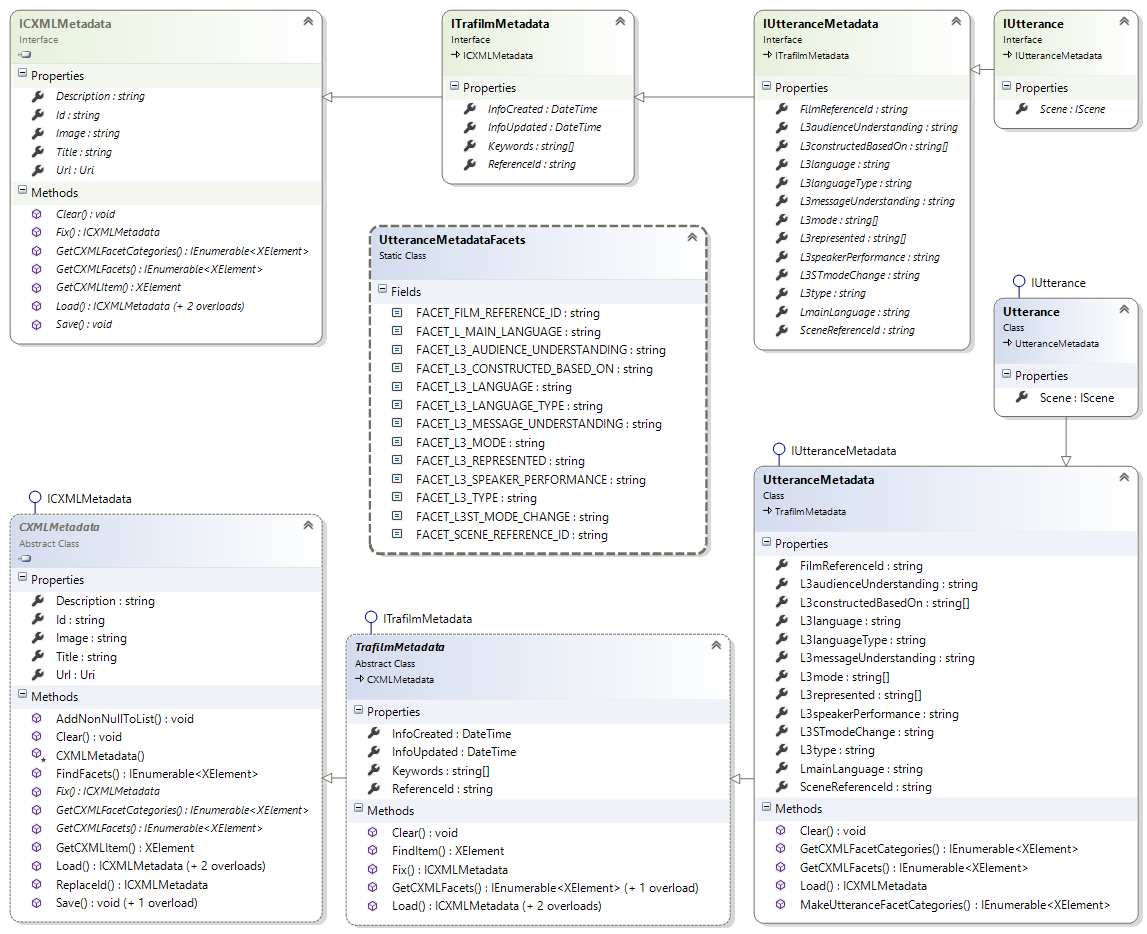
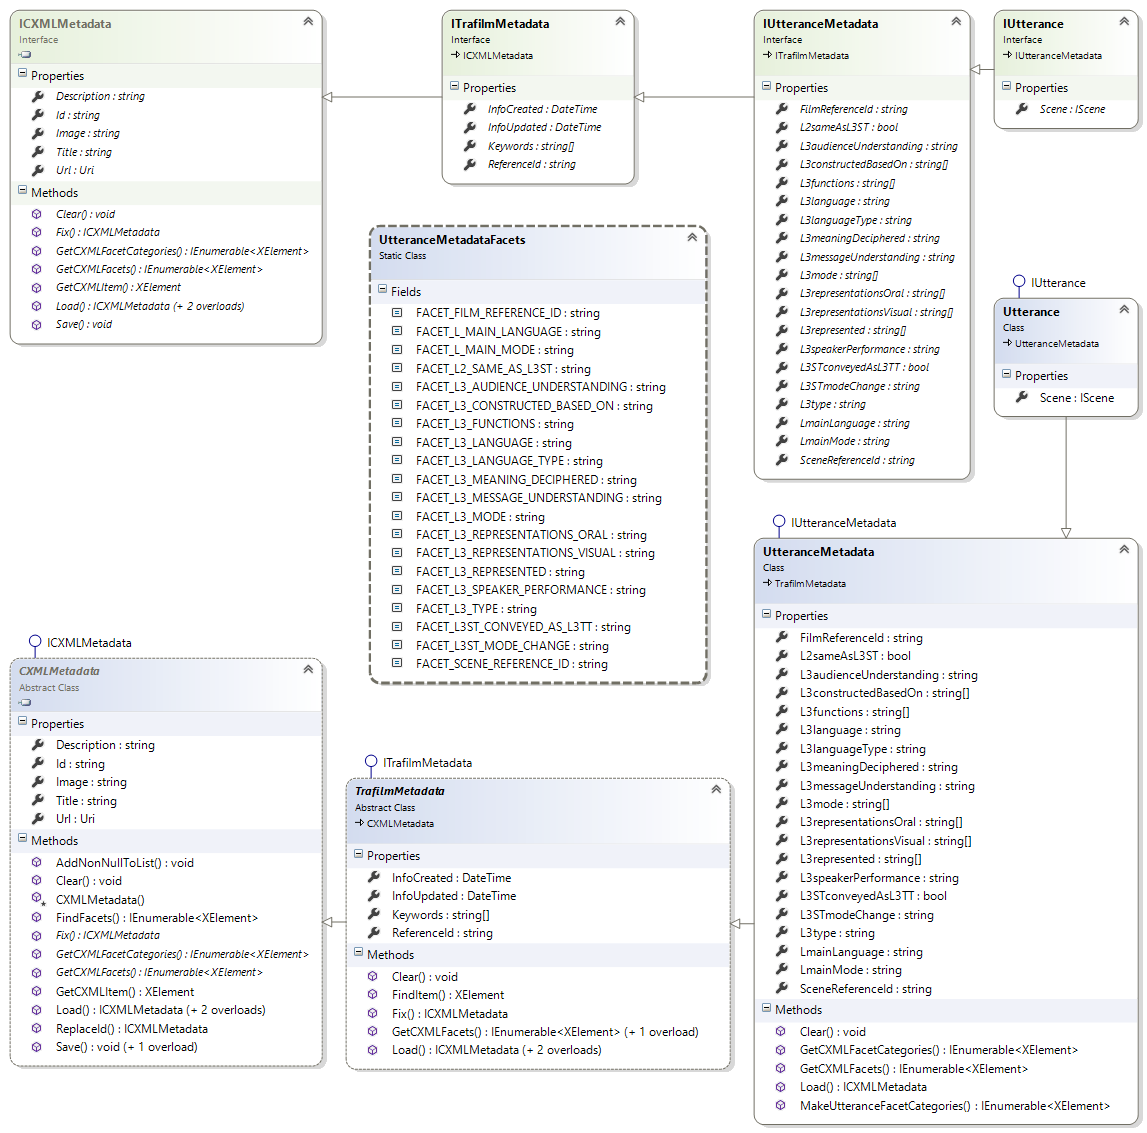
- Updated Utterances metadata with more fields - Updated Diagrams - Updated NuGet package and published

diff --git a/Metadata/Utterance/UtteranceMetadata.cs b/Metadata/Utterance/UtteranceMetadata.cs
@@ -1,6 +1,6 @@
 //Project: Trafilm (http://trafilm.net)
 //Filename: UtteranceMetadata.cs
-//Version: 20160506
+//Version: 20160510
 
 using Metadata.CXML;
 using Trafilm.Metadata.Models;
@@ -21,7 +21,11 @@ namespace Trafilm.Metadata
 
     public string L3type { get; set; } //L3ST, L3TT
 
-    public string LmainLanguage { get; set; } //for L1ST or L2TT
+    public string LmainLanguage { get; set; } //depending on L3 type this is either the L1ST language or the L2TT language
+    public string LmainMode { get; set; } //oral, text (means dubbed, subtitled in L2TT context)
+
+    public bool L2sameAsL3ST { get; set; }
+    public bool L3STconveyedAsL3TT { get; set; }
 
     public string L3languageType { get; set; } //e.g. real, constructed, variety (real dialect, slang or other)
     public string L3language { get; set; }
@@ -30,6 +34,7 @@ namespace Trafilm.Metadata
 
     public string L3audienceUnderstanding { get; set; }
     public string L3messageUnderstanding { get; set; }
+    public string L3meaningDeciphered { get; set; }
 
     public string L3speakerPerformance { get; set; }
 
@@ -37,6 +42,10 @@ namespace Trafilm.Metadata
     public string L3STmodeChange { get; set; } //for L3 type = L3ST this should always be "Not applicable"
 
     public string[] L3represented { get; set; }
+    public string[] L3representationsOral { get; set; }
+    public string[] L3representationsVisual { get; set; }
+
+    public string[] L3functions { get; set; }
 
     #endregion
 
@@ -52,6 +61,10 @@ namespace Trafilm.Metadata
       L3type = "";
 
       LmainLanguage = "";
+      LmainMode = "";
+
+      L2sameAsL3ST = false;
+      L3STconveyedAsL3TT = false;
 
       L3languageType = "";
       L3language = "";
@@ -60,6 +73,7 @@ namespace Trafilm.Metadata
 
       L3audienceUnderstanding = "";
       L3messageUnderstanding = "";
+      L3meaningDeciphered = "";
 
       L3speakerPerformance = "";
 
@@ -67,6 +81,10 @@ namespace Trafilm.Metadata
       L3STmodeChange = "";
 
       L3represented = new string[] { };
+      L3representationsOral= new string[] { };
+      L3representationsVisual = new string[] { };
+
+      L3functions = new string[] { };
     }
 
     public override ICXMLMetadata Load(XElement item)
@@ -81,6 +99,10 @@ namespace Trafilm.Metadata
       L3type = facets.CXMLFacetStringValue(UtteranceMetadataFacets.FACET_L3_TYPE);
 
       LmainLanguage = facets.CXMLFacetStringValue(UtteranceMetadataFacets.FACET_L_MAIN_LANGUAGE);
+      LmainMode = facets.CXMLFacetStringValue(UtteranceMetadataFacets.FACET_L_MAIN_MODE);
+
+      L2sameAsL3ST = facets.CXMLFacetBoolValue(UtteranceMetadataFacets.FACET_L2_SAME_AS_L3ST);
+      L3STconveyedAsL3TT = facets.CXMLFacetBoolValue(UtteranceMetadataFacets.FACET_L3ST_CONVEYED_AS_L3TT);
 
       L3languageType = facets.CXMLFacetStringValue(UtteranceMetadataFacets.FACET_L3_LANGUAGE_TYPE);
       L3language = facets.CXMLFacetStringValue(UtteranceMetadataFacets.FACET_L3_LANGUAGE);
@@ -89,6 +111,7 @@ namespace Trafilm.Metadata
 
       L3audienceUnderstanding = facets.CXMLFacetStringValue(UtteranceMetadataFacets.FACET_L3_AUDIENCE_UNDERSTANDING);
       L3messageUnderstanding = facets.CXMLFacetStringValue(UtteranceMetadataFacets.FACET_L3_MESSAGE_UNDERSTANDING);
+      L3meaningDeciphered = facets.CXMLFacetStringValue(UtteranceMetadataFacets.FACET_L3_MEANING_DECIPHERED);
 
       L3speakerPerformance = facets.CXMLFacetStringValue(UtteranceMetadataFacets.FACET_L3_SPEAKER_PERFORMANCE);
 
@@ -96,6 +119,10 @@ namespace Trafilm.Metadata
       L3STmodeChange = facets.CXMLFacetStringValue(UtteranceMetadataFacets.FACET_L3ST_MODE_CHANGE); //for L3 type = L3ST this should always be "Not applicable" 
 
       L3represented = facets.CXMLFacetStringValues(UtteranceMetadataFacets.FACET_L3_REPRESENTED);
+      L3representationsOral = facets.CXMLFacetStringValues(UtteranceMetadataFacets.FACET_L3_REPRESENTATIONS_ORAL);
+      L3representationsVisual = facets.CXMLFacetStringValues(UtteranceMetadataFacets.FACET_L3_REPRESENTATIONS_VISUAL);
+
+      L3functions = facets.CXMLFacetStringValues(UtteranceMetadataFacets.FACET_L3_FUNCTIONS);
 
       return this;
     }
@@ -118,6 +145,10 @@ namespace Trafilm.Metadata
       AddNonNullToList(facets, CXML.MakeStringFacet(UtteranceMetadataFacets.FACET_L3_TYPE, L3type));
 
       AddNonNullToList(facets, CXML.MakeStringFacet(UtteranceMetadataFacets.FACET_L_MAIN_LANGUAGE, LmainLanguage));
+      AddNonNullToList(facets, CXML.MakeStringFacet(UtteranceMetadataFacets.FACET_L_MAIN_MODE, LmainMode));
+
+      AddNonNullToList(facets, CXML.MakeStringFacet(UtteranceMetadataFacets.FACET_L2_SAME_AS_L3ST, L2sameAsL3ST.ToString())); //this will give True/False (not Yes/No)
+      AddNonNullToList(facets, CXML.MakeStringFacet(UtteranceMetadataFacets.FACET_L3ST_CONVEYED_AS_L3TT, L3STconveyedAsL3TT.ToString())); //this will give True/False (not Yes/No)
 
       AddNonNullToList(facets, CXML.MakeStringFacet(UtteranceMetadataFacets.FACET_L3_LANGUAGE_TYPE, L3languageType));
       AddNonNullToList(facets, CXML.MakeStringFacet(UtteranceMetadataFacets.FACET_L3_LANGUAGE, L3language));
@@ -126,6 +157,7 @@ namespace Trafilm.Metadata
 
       AddNonNullToList(facets, CXML.MakeStringFacet(UtteranceMetadataFacets.FACET_L3_AUDIENCE_UNDERSTANDING, L3audienceUnderstanding));
       AddNonNullToList(facets, CXML.MakeStringFacet(UtteranceMetadataFacets.FACET_L3_MESSAGE_UNDERSTANDING, L3messageUnderstanding));
+      AddNonNullToList(facets, CXML.MakeStringFacet(UtteranceMetadataFacets.FACET_L3_MEANING_DECIPHERED, L3meaningDeciphered));
 
       AddNonNullToList(facets, CXML.MakeStringFacet(UtteranceMetadataFacets.FACET_L3_SPEAKER_PERFORMANCE, L3speakerPerformance));
 
@@ -133,6 +165,10 @@ namespace Trafilm.Metadata
       AddNonNullToList(facets, CXML.MakeStringFacet(UtteranceMetadataFacets.FACET_L3ST_MODE_CHANGE, L3STmodeChange));
 
       AddNonNullToList(facets, CXML.MakeStringFacet(UtteranceMetadataFacets.FACET_L3_REPRESENTED, L3represented));
+      AddNonNullToList(facets, CXML.MakeStringFacet(UtteranceMetadataFacets.FACET_L3_REPRESENTATIONS_ORAL, L3representationsOral));
+      AddNonNullToList(facets, CXML.MakeStringFacet(UtteranceMetadataFacets.FACET_L3_REPRESENTATIONS_VISUAL, L3representationsVisual));
+
+      AddNonNullToList(facets, CXML.MakeStringFacet(UtteranceMetadataFacets.FACET_L3_FUNCTIONS, L3functions));
 
       return facets;
     }
@@ -155,6 +191,10 @@ namespace Trafilm.Metadata
       result.Add(CXML.MakeFacetCategory(UtteranceMetadataFacets.FACET_L3_TYPE, CXML.VALUE_STRING, null, isFilterVisible: true, isMetadataVisible: true, isWordWheelVisible: true));
 
       result.Add(CXML.MakeFacetCategory(UtteranceMetadataFacets.FACET_L_MAIN_LANGUAGE, CXML.VALUE_STRING, null, isFilterVisible: true, isMetadataVisible: true, isWordWheelVisible: true));
+      result.Add(CXML.MakeFacetCategory(UtteranceMetadataFacets.FACET_L_MAIN_MODE, CXML.VALUE_STRING, null, isFilterVisible: true, isMetadataVisible: true, isWordWheelVisible: false));
+
+      result.Add(CXML.MakeFacetCategory(UtteranceMetadataFacets.FACET_L2_SAME_AS_L3ST, CXML.VALUE_STRING, null, isFilterVisible: true, isMetadataVisible: true, isWordWheelVisible: false));
+      result.Add(CXML.MakeFacetCategory(UtteranceMetadataFacets.FACET_L3ST_CONVEYED_AS_L3TT, CXML.VALUE_STRING, null, isFilterVisible: true, isMetadataVisible: true, isWordWheelVisible: false));
 
       result.Add(CXML.MakeFacetCategory(UtteranceMetadataFacets.FACET_L3_LANGUAGE_TYPE, CXML.VALUE_STRING, null, isFilterVisible: true, isMetadataVisible: true, isWordWheelVisible: true));
       result.Add(CXML.MakeFacetCategory(UtteranceMetadataFacets.FACET_L3_LANGUAGE, CXML.VALUE_STRING, null, isFilterVisible: true, isMetadataVisible: true, isWordWheelVisible: true));
@@ -163,13 +203,18 @@ namespace Trafilm.Metadata
 
       result.Add(CXML.MakeFacetCategory(UtteranceMetadataFacets.FACET_L3_AUDIENCE_UNDERSTANDING, CXML.VALUE_STRING, null, isFilterVisible: true, isMetadataVisible: true, isWordWheelVisible: true));
       result.Add(CXML.MakeFacetCategory(UtteranceMetadataFacets.FACET_L3_MESSAGE_UNDERSTANDING, CXML.VALUE_STRING, null, isFilterVisible: true, isMetadataVisible: true, isWordWheelVisible: true));
+      result.Add(CXML.MakeFacetCategory(UtteranceMetadataFacets.FACET_L3_MEANING_DECIPHERED, CXML.VALUE_STRING, null, isFilterVisible: true, isMetadataVisible: true, isWordWheelVisible: true));
 
-      result.Add(CXML.MakeFacetCategory(UtteranceMetadataFacets.FACET_L3_SPEAKER_PERFORMANCE, CXML.VALUE_STRING, null, isFilterVisible: true, isMetadataVisible: true, isWordWheelVisible: true));
+      result.Add(CXML.MakeFacetCategory(UtteranceMetadataFacets.FACET_L3_SPEAKER_PERFORMANCE, CXML.VALUE_STRING, null, isFilterVisible: true, isMetadataVisible: true, isWordWheelVisible: false));
 
       result.Add(CXML.MakeFacetCategory(UtteranceMetadataFacets.FACET_L3_MODE, CXML.VALUE_STRING, null, isFilterVisible: true, isMetadataVisible: true, isWordWheelVisible: true));
       result.Add(CXML.MakeFacetCategory(UtteranceMetadataFacets.FACET_L3ST_MODE_CHANGE, CXML.VALUE_STRING, null, isFilterVisible: true, isMetadataVisible: true, isWordWheelVisible: true));
 
       result.Add(CXML.MakeFacetCategory(UtteranceMetadataFacets.FACET_L3_REPRESENTED, CXML.VALUE_STRING, null, isFilterVisible: true, isMetadataVisible: true, isWordWheelVisible: true));
+      result.Add(CXML.MakeFacetCategory(UtteranceMetadataFacets.FACET_L3_REPRESENTATIONS_ORAL, CXML.VALUE_STRING, null, isFilterVisible: true, isMetadataVisible: true, isWordWheelVisible: true));
+      result.Add(CXML.MakeFacetCategory(UtteranceMetadataFacets.FACET_L3_REPRESENTATIONS_VISUAL, CXML.VALUE_STRING, null, isFilterVisible: true, isMetadataVisible: true, isWordWheelVisible: true));
+
+      result.Add(CXML.MakeFacetCategory(UtteranceMetadataFacets.FACET_L3_FUNCTIONS, CXML.VALUE_STRING, null, isFilterVisible: true, isMetadataVisible: true, isWordWheelVisible: true));
 
       //
 

diff --git a/Metadata/Utterance/UtteranceMetadataFacets.cs b/Metadata/Utterance/UtteranceMetadataFacets.cs
@@ -1,6 +1,6 @@
 //Project: Trafilm (http://trafilm.net)
 //Filename: UtteranceMetadataFacets.cs
-//Version: 20160506
+//Version: 20160510
 
 namespace Trafilm.Metadata
 {
@@ -13,6 +13,10 @@ namespace Trafilm.Metadata
     public const string FACET_L3_TYPE = "L3 type";
 
     public const string FACET_L_MAIN_LANGUAGE = "L1ST/L2TT"; //depending on L3 type this is either the L1ST language or the L2TT language
+    public const string FACET_L_MAIN_MODE = "L main mode"; //oral, text (means dubbed, subtitled in L2TT context)
+
+    public const string FACET_L2_SAME_AS_L3ST = "L2 same as L3ST";
+    public const string FACET_L3ST_CONVEYED_AS_L3TT = "L3ST conveyed as L3TT";
 
     public const string FACET_L3_LANGUAGE_TYPE = "L3 language type"; //e.g. real, constructed, variety (real dialect, slang or other)
     public const string FACET_L3_LANGUAGE = "L3 language";
@@ -21,6 +25,7 @@ namespace Trafilm.Metadata
 
     public const string FACET_L3_AUDIENCE_UNDERSTANDING = "L3 audience understanding";
     public const string FACET_L3_MESSAGE_UNDERSTANDING = "L3 message understanding";
+    public const string FACET_L3_MEANING_DECIPHERED = "L3 meaning deciphered";
 
     public const string FACET_L3_SPEAKER_PERFORMANCE = "L3 speaker performance";
 
@@ -28,6 +33,10 @@ namespace Trafilm.Metadata
     public const string FACET_L3ST_MODE_CHANGE = "L3ST mode change"; //for L3 type = L3ST this should always be "Not applicable"
 
     public const string FACET_L3_REPRESENTED = "L3 represented";
+    public const string FACET_L3_REPRESENTATIONS_ORAL = "L3 oral representations";
+    public const string FACET_L3_REPRESENTATIONS_VISUAL = "L3 visual representations";
+
+    public const string FACET_L3_FUNCTIONS = "L3 functions";
   }
 
 }

diff --git a/Metadata/Utterance/IUtteranceMetadata.cs b/Metadata/Utterance/IUtteranceMetadata.cs
@@ -1,6 +1,6 @@
 //Project: Trafilm (http://trafilm.net)
 //Filename: IUtteranceMetadata.cs
-//Version: 20160506
+//Version: 20160510
 
 namespace Trafilm.Metadata.Models
 {
@@ -15,7 +15,11 @@ namespace Trafilm.Metadata.Models
     
     string L3type { get; set; } //for L3ST, L3TT
 
-    string LmainLanguage { get; set; } //L1ST or L2TT
+    string LmainLanguage { get; set; } //depending on L3 type this is either the L1ST language or the L2TT language
+    string LmainMode { get; set; } //oral, text (means dubbed, subtitled in L2TT context)
+
+    bool L2sameAsL3ST { get; set; }
+    bool L3STconveyedAsL3TT { get; set; }
 
     string L3languageType { get; set; } //e.g. real, constructed, variety (real dialect, slang or other)
     string L3language { get; set; }
@@ -24,6 +28,7 @@ namespace Trafilm.Metadata.Models
 
     string L3audienceUnderstanding { get; set; }
     string L3messageUnderstanding { get; set; }
+    string L3meaningDeciphered { get; set; }
     
     string L3speakerPerformance { get; set; }
 
@@ -31,6 +36,10 @@ namespace Trafilm.Metadata.Models
     string L3STmodeChange { get; set; } //for L3 type = L3ST this should always be "Not applicable"
 
     string[] L3represented { get; set; }
+    string[] L3representationsOral { get; set; }
+    string[] L3representationsVisual { get; set; }
+
+    string[] L3functions { get; set; }
 
     #endregion
 
